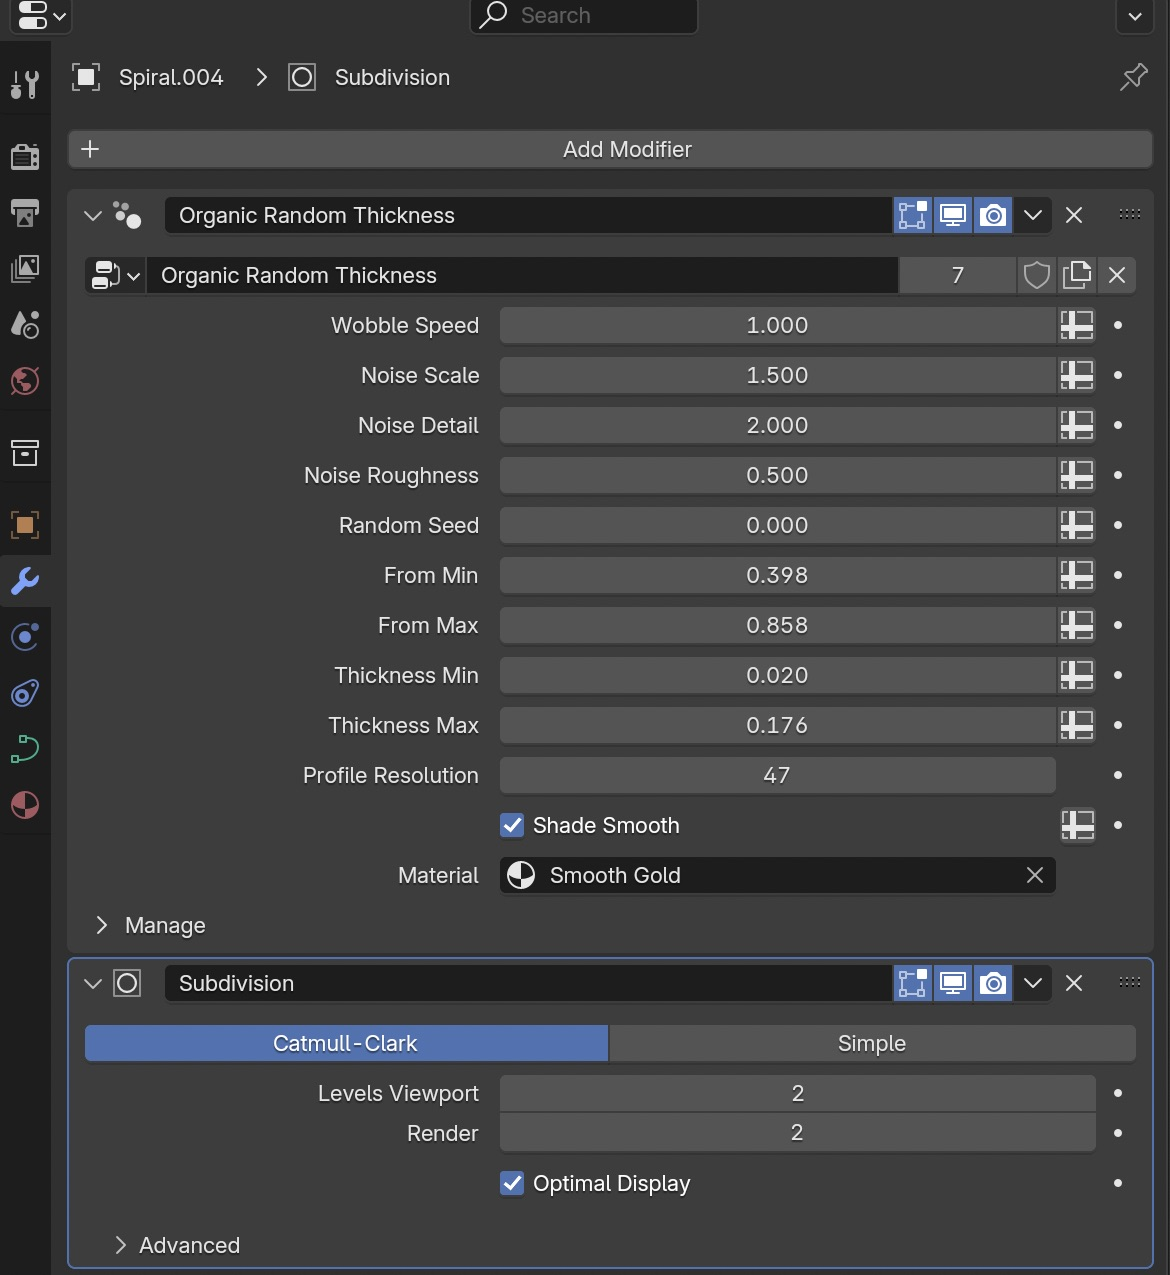
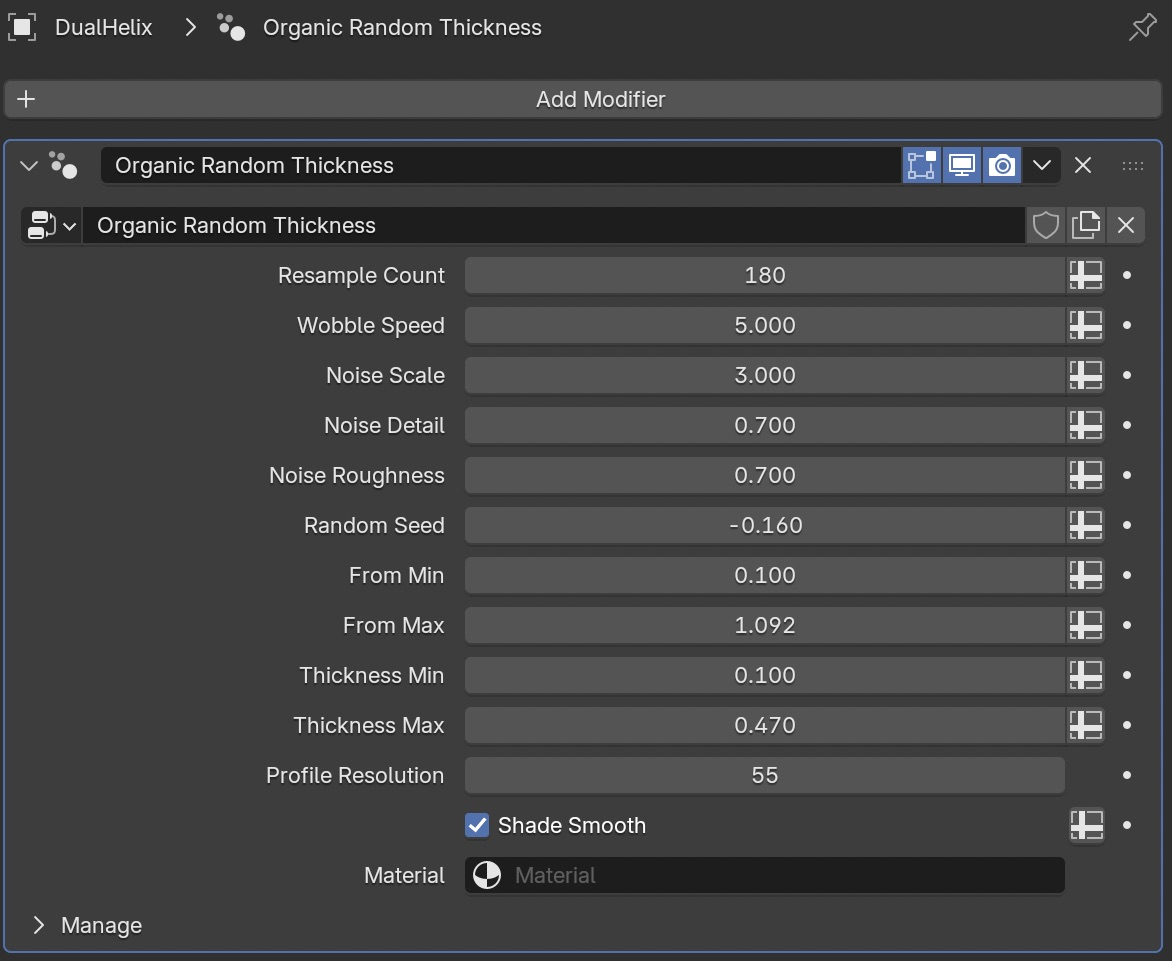
update
update

Changed region(s): [[0.0, 0.0, 1.0, 0.999]]

diff --git a/CurveThickness/Organic Random Thickness Version 3.py b/CurveThickness/Organic Random Thickness Version 3.py
@@ -1,0 +1,350 @@
+"""
+Organic Random Thickness — Geometry Nodes builder (Blender 4.0+ Safe)
+---------------------------------------------------
+Builds a reusable Geometry Nodes group that takes any curve and outputs 
+a tube mesh whose radius varies organically along the curve's length.
+
+Updates in this version:
+  - Fixed Blender 4.0+ API AttributeError on the Capture Attribute node.
+  - Replaced Capture nodes with temporary Store Named Attribute nodes 
+    (which are API-stable across Blender versions) to capture U and V.
+    
+
+IMPORTANT, works from Blender 4.5 LTS
+
+"""
+
+import bpy
+import math
+
+
+GROUP_NAME = "Organic Random Thickness"
+
+
+def build_interface(node_group):
+    """Define the group's exposed inputs/outputs."""
+    iface = node_group.interface
+
+    iface.new_socket("Geometry", in_out='INPUT', socket_type='NodeSocketGeometry')
+
+    s = iface.new_socket("Resample Count", in_out='INPUT', socket_type='NodeSocketInt')
+    s.default_value = 180
+    s.min_value = 2
+
+    # Animation & Noise Parameters
+    s = iface.new_socket("Wobble Speed", in_out='INPUT', socket_type='NodeSocketFloat')
+    s.default_value = 5
+
+    s = iface.new_socket("Noise Scale", in_out='INPUT', socket_type='NodeSocketFloat')
+    s.default_value = 3
+    s.min_value = 0.0
+
+    s = iface.new_socket("Noise Detail", in_out='INPUT', socket_type='NodeSocketFloat')
+    s.default_value = 0.7
+    s.min_value = 0.0
+    s.max_value = 15.0
+
+    s = iface.new_socket("Noise Roughness", in_out='INPUT', socket_type='NodeSocketFloat')
+    s.default_value = 0.7
+    s.min_value = 0.0
+    s.max_value = 1.0
+
+    s = iface.new_socket("Random Seed", in_out='INPUT', socket_type='NodeSocketFloat')
+    s.default_value = -0.16
+
+    # Map Range Input Mapping
+    s = iface.new_socket("From Min", in_out='INPUT', socket_type='NodeSocketFloat')
+    s.default_value = 0.1
+
+    s = iface.new_socket("From Max", in_out='INPUT', socket_type='NodeSocketFloat')
+    s.default_value = 0.8
+
+    # Thickness Output Range
+    s = iface.new_socket("Thickness Min", in_out='INPUT', socket_type='NodeSocketFloat')
+    s.default_value = 0.1
+    s.min_value = 0.0
+
+    s = iface.new_socket("Thickness Max", in_out='INPUT', socket_type='NodeSocketFloat')
+    s.default_value = 0.8
+    s.min_value = 0.0
+
+    # Mesh & Material Parameters
+    s = iface.new_socket("Profile Resolution", in_out='INPUT', socket_type='NodeSocketInt')
+    s.default_value = 55
+    s.min_value = 3
+    s.max_value = 64
+
+    s = iface.new_socket("Shade Smooth", in_out='INPUT', socket_type='NodeSocketBool')
+    s.default_value = True
+
+    s = iface.new_socket("Material", in_out='INPUT', socket_type='NodeSocketMaterial')
+
+    iface.new_socket("Geometry", in_out='OUTPUT', socket_type='NodeSocketGeometry')
+
+
+def build_nodes(node_group):
+    nodes = node_group.nodes
+    links = node_group.links
+    nodes.clear()
+
+    group_in = nodes.new('NodeGroupInput')
+    group_in.location = (-1200, 0)
+
+    group_out = nodes.new('NodeGroupOutput')
+    group_out.location = (1400, 0)
+
+    # --- Spline Parameter & Circular Mapping (Seamless Loop) ---
+    spline_param_main = nodes.new('GeometryNodeSplineParameter')
+    spline_param_main.location = (-1200, -250)
+
+    math_tau = nodes.new('ShaderNodeMath')
+    math_tau.operation = 'MULTIPLY'
+    math_tau.inputs[1].default_value = math.tau  # 2 * Pi
+    math_tau.location = (-1000, -250)
+
+    math_cos = nodes.new('ShaderNodeMath')
+    math_cos.operation = 'COSINE'
+    math_cos.location = (-800, -150)
+
+    math_sin = nodes.new('ShaderNodeMath')
+    math_sin.operation = 'SINE'
+    math_sin.location = (-800, -350)
+
+    combine_xyz_noise = nodes.new('ShaderNodeCombineXYZ')
+    combine_xyz_noise.location = (-600, -250)
+
+    # --- Animation Setup (Scene Time) ---
+    scene_time = nodes.new('GeometryNodeInputSceneTime')
+    scene_time.location = (-800, -550)
+
+    math_time_mult = nodes.new('ShaderNodeMath')
+    math_time_mult.operation = 'MULTIPLY'
+    math_time_mult.location = (-600, -550)
+
+    math_time_add = nodes.new('ShaderNodeMath')
+    math_time_add.operation = 'ADD'
+    math_time_add.location = (-400, -550)
+
+    # --- Noise Setup ---
+    noise_tex = nodes.new('ShaderNodeTexNoise')
+    noise_tex.location = (-300, -250)
+    noise_tex.noise_dimensions = '4D'
+
+    map_range = nodes.new('ShaderNodeMapRange')
+    map_range.location = (-100, -250)
+
+    # --- Resample Curve (fixed point count before storing attributes) ---
+    resample_curve = nodes.new('GeometryNodeResampleCurve')
+    resample_curve.mode = 'COUNT'
+    resample_curve.location = (-1000, 150)
+
+    # --- UV Temporary Storing Setup (Blender 4.0+ Safe) ---
+    store_u = nodes.new('GeometryNodeStoreNamedAttribute')
+    store_u.data_type = 'FLOAT'
+    store_u.domain = 'POINT'
+    store_u.inputs['Name'].default_value = "uv_u"
+    store_u.location = (-100, 100)
+
+    curve_circle = nodes.new('GeometryNodeCurvePrimitiveCircle')
+    curve_circle.location = (-100, -700)
+    curve_circle.inputs['Radius'].default_value = 1.0
+
+    spline_param_profile = nodes.new('GeometryNodeSplineParameter')
+    spline_param_profile.location = (-300, -850)
+
+    store_v = nodes.new('GeometryNodeStoreNamedAttribute')
+    store_v.data_type = 'FLOAT'
+    store_v.domain = 'POINT'
+    store_v.inputs['Name'].default_value = "uv_v"
+    store_v.location = (150, -700)
+
+    # --- Curve & Mesh Setup ---
+    set_radius = nodes.new('GeometryNodeSetCurveRadius')
+    set_radius.location = (150, 100)
+
+    curve_to_mesh = nodes.new('GeometryNodeCurveToMesh')
+    curve_to_mesh.location = (400, 0)
+    curve_to_mesh.inputs['Fill Caps'].default_value = True
+
+    # --- Read Temporary UVs and Combine ---
+    read_u = nodes.new('GeometryNodeInputNamedAttribute')
+    read_u.data_type = 'FLOAT'
+    read_u.inputs['Name'].default_value = "uv_u"
+    read_u.location = (150, -200)
+
+    read_v = nodes.new('GeometryNodeInputNamedAttribute')
+    read_v.data_type = 'FLOAT'
+    read_v.inputs['Name'].default_value = "uv_v"
+    read_v.location = (150, -350)
+
+    combine_uv = nodes.new('ShaderNodeCombineXYZ')
+    combine_uv.location = (400, -250)
+
+    store_uv = nodes.new('GeometryNodeStoreNamedAttribute')
+    store_uv.data_type = 'FLOAT_VECTOR'
+    store_uv.domain = 'CORNER'
+    store_uv.inputs['Name'].default_value = "UV_Map"
+    store_uv.location = (650, 0)
+
+    # --- Strength Attribute Switch ---
+    named_attr = nodes.new('GeometryNodeInputNamedAttribute')
+    named_attr.data_type = 'FLOAT'
+    named_attr.inputs['Name'].default_value = "strength"
+    named_attr.location = (400, -500)
+
+    switch_node = nodes.new('GeometryNodeSwitch')
+    switch_node.input_type = 'FLOAT'
+    switch_node.inputs['False'].default_value = 1.0
+    switch_node.location = (650, -450)
+
+    # --- Radius Attribute Switch (Scale) ---
+    named_attr_radius = nodes.new('GeometryNodeInputNamedAttribute')
+    named_attr_radius.data_type = 'FLOAT'
+    named_attr_radius.inputs['Name'].default_value = "radius"
+    named_attr_radius.location = (150, -950)
+
+    switch_radius = nodes.new('GeometryNodeSwitch')
+    switch_radius.input_type = 'FLOAT'
+    switch_radius.inputs['False'].default_value = 1.0
+    switch_radius.location = (400, -950)
+
+    # --- Shading & Material ---
+    shade_smooth = nodes.new('GeometryNodeSetShadeSmooth')
+    shade_smooth.location = (850, 0)
+
+    set_material = nodes.new('GeometryNodeSetMaterial')
+    set_material.location = (1100, 0)
+
+    # ==========================
+    # --- LINKS ---
+    # ==========================
+
+    # 1. Circular Noise Coordinates
+    links.new(spline_param_main.outputs['Factor'], math_tau.inputs[0])
+    links.new(math_tau.outputs['Value'], math_cos.inputs[0])
+    links.new(math_tau.outputs['Value'], math_sin.inputs[0])
+    links.new(math_cos.outputs['Value'], combine_xyz_noise.inputs['X'])
+    links.new(math_sin.outputs['Value'], combine_xyz_noise.inputs['Y'])
+    links.new(combine_xyz_noise.outputs['Vector'], noise_tex.inputs['Vector'])
+
+    # 2. Animation (Time -> W)
+    links.new(scene_time.outputs['Seconds'], math_time_mult.inputs[0])
+    links.new(group_in.outputs['Wobble Speed'], math_time_mult.inputs[1])
+    links.new(math_time_mult.outputs['Value'], math_time_add.inputs[0])
+    links.new(group_in.outputs['Random Seed'], math_time_add.inputs[1])
+    links.new(math_time_add.outputs['Value'], noise_tex.inputs['W'])
+
+    # 3. Noise parameters & Range Mapping
+    links.new(group_in.outputs['Noise Scale'], noise_tex.inputs['Scale'])
+    links.new(group_in.outputs['Noise Detail'], noise_tex.inputs['Detail'])
+    links.new(group_in.outputs['Noise Roughness'], noise_tex.inputs['Roughness'])
+
+    links.new(noise_tex.outputs['Fac'], map_range.inputs[0])          
+    links.new(group_in.outputs['From Min'], map_range.inputs[1])      
+    links.new(group_in.outputs['From Max'], map_range.inputs[2])      
+    links.new(group_in.outputs['Thickness Min'], map_range.inputs[3]) 
+    links.new(group_in.outputs['Thickness Max'], map_range.inputs[4]) 
+    links.new(map_range.outputs['Result'], set_radius.inputs['Radius'])
+
+    # 4. Store Temporary U and V Attributes on Curves
+    links.new(group_in.outputs['Geometry'], resample_curve.inputs['Curve'])
+    links.new(group_in.outputs['Resample Count'], resample_curve.inputs['Count'])
+    links.new(resample_curve.outputs['Curve'], store_u.inputs['Geometry'])
+    links.new(spline_param_main.outputs['Factor'], store_u.inputs['Value'])
+    
+    links.new(group_in.outputs['Profile Resolution'], curve_circle.inputs['Resolution'])
+    links.new(curve_circle.outputs['Curve'], store_v.inputs['Geometry'])
+    links.new(spline_param_profile.outputs['Factor'], store_v.inputs['Value'])
+
+    # 5. Geometry Pipeline
+    links.new(store_u.outputs['Geometry'], set_radius.inputs['Curve'])
+    links.new(set_radius.outputs['Curve'], curve_to_mesh.inputs['Curve'])
+    links.new(store_v.outputs['Geometry'], curve_to_mesh.inputs['Profile Curve'])
+
+    # 6. Read back Temporary U/V, Combine, and Store Final UV
+    links.new(read_u.outputs[0], combine_uv.inputs['X']) # [0] is the 'Attribute' output
+    links.new(read_v.outputs[0], combine_uv.inputs['Y'])
+    links.new(curve_to_mesh.outputs['Mesh'], store_uv.inputs['Geometry'])
+    links.new(combine_uv.outputs['Vector'], store_uv.inputs['Value'])
+
+    # 7. Named Attribute & Switch logic (Strength selection)
+    links.new(named_attr.outputs['Exists'], switch_node.inputs['Switch'])
+    links.new(named_attr.outputs[0], switch_node.inputs['True']) # [0] is 'Attribute'
+
+    # 7b. Radius Attribute & Switch logic (Scale selection)
+    links.new(named_attr_radius.outputs['Exists'], switch_radius.inputs['Switch'])
+    links.new(named_attr_radius.outputs[0], switch_radius.inputs['True']) # [0] is 'Attribute'
+    links.new(switch_radius.outputs['Output'], curve_to_mesh.inputs['Scale'])
+
+    # 8. Shading & Material Setup
+    links.new(store_uv.outputs['Geometry'], shade_smooth.inputs['Geometry'])
+    links.new(group_in.outputs['Shade Smooth'], shade_smooth.inputs['Shade Smooth'])
+    
+    links.new(shade_smooth.outputs['Geometry'], set_material.inputs['Geometry'])
+    links.new(switch_node.outputs['Output'], set_material.inputs['Selection'])
+    links.new(group_in.outputs['Material'], set_material.inputs['Material'])
+
+    # Final Output
+    links.new(set_material.outputs['Geometry'], group_out.inputs['Geometry'])
+
+
+def get_or_create_node_group():
+    if GROUP_NAME in bpy.data.node_groups:
+        node_group = bpy.data.node_groups[GROUP_NAME]
+        node_group.nodes.clear()
+        node_group.interface.clear()  
+    else:
+        node_group = bpy.data.node_groups.new(GROUP_NAME, 'GeometryNodeTree')
+        
+    build_interface(node_group)
+    build_nodes(node_group)
+    return node_group
+
+
+def sync_modifier_inputs(mod, node_group):
+    """Push the node group's interface default values into the modifier's
+    own input properties. Blender does NOT do this automatically for
+    modifiers that already exist / were created before the defaults changed,
+    so we set them explicitly via each socket's identifier."""
+    skip_names = {"Geometry", "Material"}
+    for item in node_group.interface.items_tree:
+        if item.item_type != 'SOCKET' or item.in_out != 'INPUT':
+            continue
+        if item.name in skip_names:
+            continue
+        try:
+            mod[item.identifier] = item.default_value
+        except Exception as e:
+            print(f"  (Konnte '{item.name}' nicht setzen: {e})")
+
+    # Blender braucht das, damit die UI/Depsgraph den neuen Wert übernimmt
+    mod.node_group.interface_update(bpy.context) if hasattr(mod.node_group, "interface_update") else None
+    mod.id_data.update_tag()
+
+
+def apply_to_selected_object():
+    obj = bpy.context.active_object
+    if obj is None or obj.type != 'CURVE':
+        raise RuntimeError(
+            "Select a curve object first, then run this script again."
+        )
+
+    for spline in obj.data.splines:
+        if spline.type != 'BEZIER':
+            spline.type = 'BEZIER'
+
+    node_group = get_or_create_node_group()
+
+    if GROUP_NAME not in obj.modifiers:
+        mod = obj.modifiers.new(name=GROUP_NAME, type='NODES')
+        mod.node_group = node_group
+        print(f"Added '{GROUP_NAME}' Geometry Nodes modifier to '{obj.name}'.")
+    else:
+        mod = obj.modifiers[GROUP_NAME]
+        print(f"Updated '{GROUP_NAME}' on '{obj.name}'.")
+
+    sync_modifier_inputs(mod, node_group)
+
+
+if __name__ == "__main__":
+    apply_to_selected_object()

diff --git a/CurveThickness/README.md b/CurveThickness/README.md
@@ -27,9 +27,15 @@ Once you run the script on a curve (like a circle or a drawn path), it adds a cu
 
 ## Notes
 ⚠ The proper UV Settings are depending on your chosen material, you have to play in the shader settings like in shown in the screenshot
+⚠ Works from Blender version 4.5.+ (only reason; the Curve to Mesh new "Scale" input)
 
 ### v1.0.0 (August 6, 2026)
 - **Publishing**: First public upload of the Add-on.
+
+### v2.0.0 (September 11, 2026)
+Updates:
+  - Fixed KeyError by forcing the script to clear and rebuild the Node 
+    Group interface on every run, preventing missing socket errors.
 
 ## Blender
 ![Blender](https://img.shields.io/badge/Blender-4.3%2B-orange)
